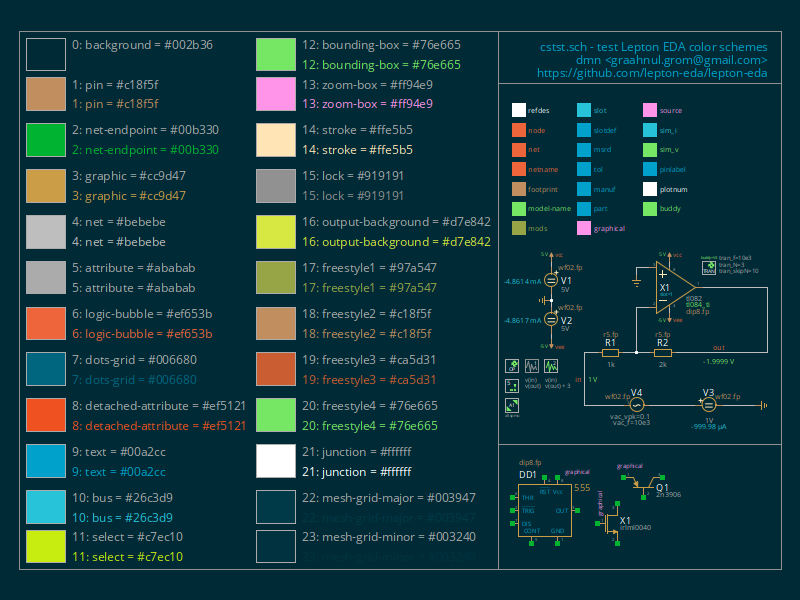
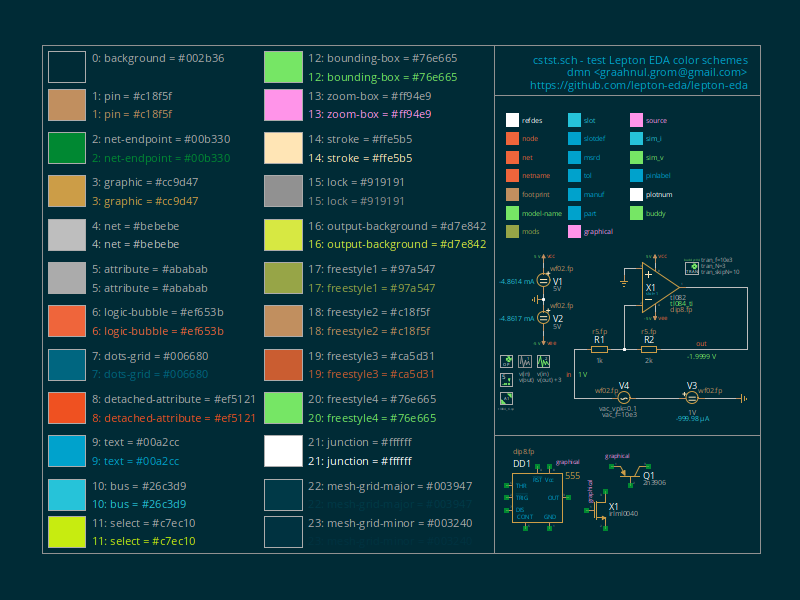
cs/zelenuha: semi-transparent net-endpoint
thanks to @vzh for pointing this out on gitter

Changed region(s): [[0.0312, 0.06, 0.9688, 0.96], [0.625, 0.42, 0.9688, 0.93], [0.5938, 0.9, 0.625, 0.93]]

diff --git a/index.html b/index.html
@@ -56,7 +56,7 @@ Works under Cygwin. Guile 3.0 support. Lepton EDA reference manual.
   <li><a href="#scm">guile scripts</a></li>
   <li><a href="#netlist">netlister backends</a></li>
   <li><a href="#cfg">configuration files</a></li>
-  <li><a href="#cs">color schemes for lepton-schematic</a></li>
+  <li><a href="#cs">color schemes</a></li>
   <li><a href="#sch">schematics</a></li>
   <li><a href="#ss">screenshots</a></li>
   <li><a href="#wip">wip</a></li>
@@ -244,7 +244,7 @@ gitmemory.com: <a href='https://www.gitmemory.com/lepton-eda/lepton-eda'>lepton-
 <br />
 <br />
 
-<h4 id="cs">Color Schemes for lepton-schematic</h4>
+<h4 id="cs">Color Schemes</h4>
 <a href='cs/index.html'>color schemes page</a>
 <br />
 <br />
@@ -275,7 +275,7 @@ gitmemory.com: <a href='https://www.gitmemory.com/lepton-eda/lepton-eda'>lepton-
 
 <br />
 <hr />
-updated: 05/Feb/2021
+updated: 10/Feb/2021
 &nbsp;&nbsp;
 [ <a href="https://github.com/graahnul-grom/graahnul-grom.github.io">site repo</a> ]
 &nbsp;&nbsp;&nbsp;&nbsp;

diff --git a/cs/index.html b/cs/index.html
@@ -15,7 +15,7 @@ function ()
 </head>
 <body>
 
-<h3>Color Schemes for lepton-schematic</h3>
+<h3>Color Schemes</h3>
 <br />
 
 <!--
